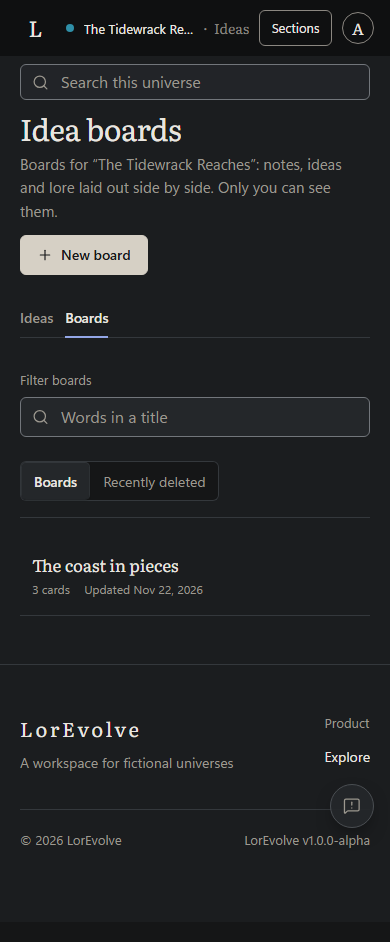
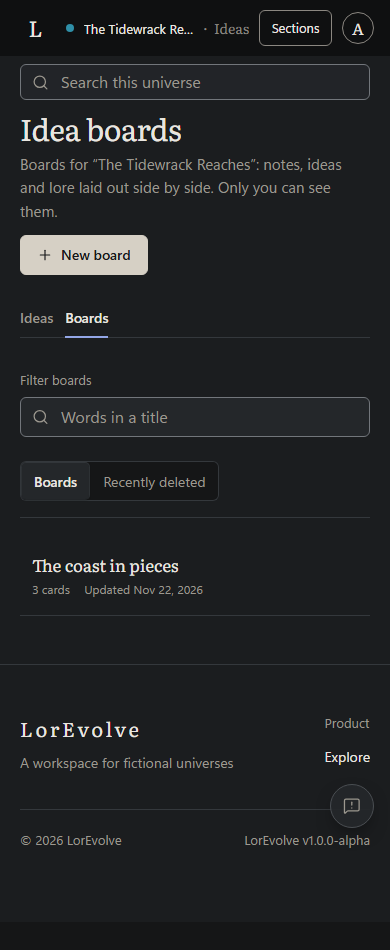
[FIX] Ideas toggle height only for a fine pointer; test touch height and Comic arcs gap (Issue 566)
The toggle rule out-ranked the touch rule, so a phone lost its 44px options. It now applies under pointer: fine. Specs assert the 44px touch height and the Comic arcs gap. Ideas 390 evidence refreshed.

diff --git a/tests/LorEvolve.E2E/specs/list-screens-polish.spec.ts b/tests/LorEvolve.E2E/specs/list-screens-polish.spec.ts
@@ -72,6 +72,12 @@ test('Cinema Sagas clears its tab strip by the gap the strip has above it', asyn
   const strip = await box(page.getByTestId('cinema-views'))
   const first = await box(page.getByTestId('saga-new'))
   expect(first.y - (strip.y + strip.height)).toBeGreaterThanOrEqual(20)
+
+  await page.goto(`/app/universes/${universeId}/comic`)
+  await page.getByTestId('comic-view-collections').click()
+  const comicStrip = await box(page.getByTestId('comic-views'))
+  const heading = await box(page.getByTestId('comic-collections').locator('h2').first())
+  expect(heading.y - (comicStrip.y + comicStrip.height)).toBeGreaterThanOrEqual(20)
 })
 
 test('Ideas: the Ideas / Recently deleted toggle is as tall as the filter input beside it', async ({
@@ -120,4 +126,22 @@ test('a project Types list keeps its count beside the name on a phone, unmarked'
 
   await page.goto(`/app/universes/${universeId}/types`)
   await expect(page.getByTestId('type-list')).toHaveAttribute('data-count', 'below')
+})
+
+test('Ideas: on a touch screen the toggle options keep the 44px touch height', async ({
+  browser,
+}) => {
+  const context = await browser.newContext({
+    viewport: { width: 390, height: 844 },
+    hasTouch: true,
+    isMobile: true,
+    locale: 'en-US',
+  })
+  const page = await context.newPage()
+  const universeId = await signUpWithWorld(page)
+  await page.goto(`/app/universes/${universeId}/ideas`)
+  for (const id of ['ideas-view-live', 'ideas-view-deleted']) {
+    expect((await box(page.getByTestId(id))).height).toBeGreaterThanOrEqual(44)
+  }
+  await context.close()
 })

diff --git a/src/LorEvolve.Web/src/styles/081-ideas.css b/src/LorEvolve.Web/src/styles/081-ideas.css
@@ -18,8 +18,10 @@
 }
 
 /* The view toggle is as tall as the filter beside it, so the row reads as one line of controls. */
-.ideas__controls .segmented__option {
-  min-height: calc(var(--control-md) - 4px);
+@media (pointer: fine) {
+  .ideas__controls .segmented__option {
+    min-height: calc(var(--control-md) - 4px);
+  }
 }
 
 /* Inside a story the story's header is the page's; the view opens with one line of what it holds. */
